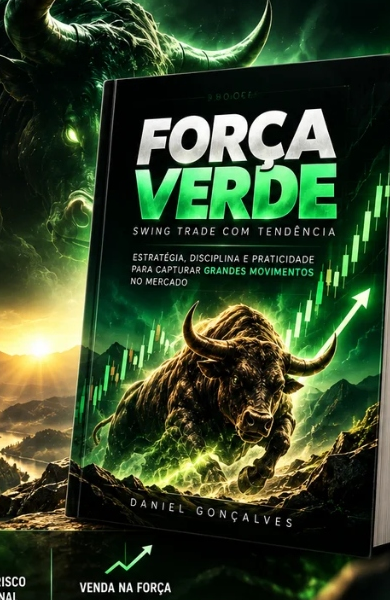
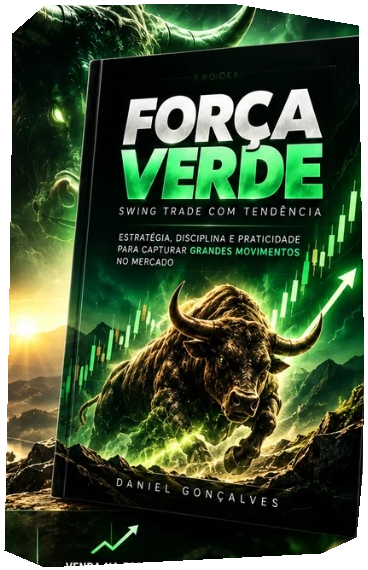
feat(store): livro 3d com canal alfa transparente, sidebar preservada e cards escuros sem faixas brancas

diff --git a/frontend/materials-page-v2.css b/frontend/materials-page-v2.css
@@ -9,6 +9,28 @@ body:has(#materials.active) .content {
   color: #ffffff !important;
 }
 
+/* Preserva rigorosamente a Sidebar oficial do Healthy Trend Trader */
+body:has(#materials.active) .sidebar {
+  background: linear-gradient(180deg, #10291f 0%, #0a1d16 100%) !important;
+  border-right: 1px solid rgba(16, 185, 129, 0.12) !important;
+  box-shadow: 18px 0 40px rgba(0, 0, 0, 0.5) !important;
+  z-index: 25 !important;
+}
+
+/* Harmoniza a barra superior (topbar) com o visual cinematográfico escuro */
+body:has(#materials.active) .topbar {
+  background: rgba(3, 14, 7, 0.95) !important;
+  border-bottom: 1px solid rgba(16, 185, 129, 0.14) !important;
+  backdrop-filter: blur(16px) !important;
+  color: #e2e8f0 !important;
+}
+body:has(#materials.active) .topbar .crumb {
+  color: #94a3b8 !important;
+}
+body:has(#materials.active) .topbar .crumb b {
+  color: #10b981 !important;
+}
+
 #materials {
   width: 100%;
 }
@@ -260,18 +282,28 @@ body:has(#materials.active) .content {
 
 .flagship-stage {
   perspective: 1200px;
+  position: relative;
+  display: flex;
+  justify-content: center;
+  align-items: center;
+  background: transparent !important;
+  border: none !important;
+  box-shadow: none !important;
 }
 
 .flagship-cover-img {
-  height: clamp(320px, 28vw, 390px);
+  height: clamp(330px, 30vw, 410px);
   width: auto;
   object-fit: contain;
-  filter: drop-shadow(0 20px 45px rgba(0, 0, 0, 0.85)) drop-shadow(0 0 35px rgba(34, 197, 94, 0.2));
-  transition: transform 0.5s ease;
+  background: transparent !important;
+  /* Sombra natural e realista integrando o livro 3D à cena do touro e montanhas */
+  filter: drop-shadow(0 20px 35px rgba(0, 0, 0, 0.85)) drop-shadow(0 0 25px rgba(16, 185, 129, 0.2));
+  transition: transform 0.4s ease, filter 0.4s ease;
 }
 
 .flagship-stage:hover .flagship-cover-img {
-  transform: translateY(-4px) scale(1.02);
+  transform: translateY(-6px) scale(1.02);
+  filter: drop-shadow(0 26px 48px rgba(0, 0, 0, 0.92)) drop-shadow(0 0 35px rgba(16, 185, 129, 0.35));
 }
 
 /* Faixa dos 5 Pilares Integrada */
@@ -526,32 +558,32 @@ body:has(#materials.active) .content {
 }
 
 .materials-filters button {
-  padding: 7px 18px;
+  padding: 6px 14px;
   border-radius: 999px;
-  font-size: 12.5px;
-  font-weight: 700;
+  font-size: 12px;
+  font-weight: 600;
   cursor: pointer;
   transition: all 0.2s ease;
-  background: rgba(255, 255, 255, 0.9);
-  border: none;
-  color: #0f172a;
+  background: rgba(4, 18, 10, 0.7);
+  border: 1px solid rgba(16, 185, 129, 0.25);
+  color: #cbd5e1;
   display: inline-flex;
   align-items: center;
-  gap: 6px;
-  box-shadow: 0 2px 6px rgba(0, 0, 0, 0.2);
+  gap: 5px;
 }
 
 .materials-filters button:hover {
-  background: #ffffff;
-  transform: translateY(-1px);
+  background: rgba(16, 185, 129, 0.15);
+  color: #ffffff;
+  border-color: rgba(16, 185, 129, 0.45);
 }
 
 .materials-filters button.active {
   background: #10b981;
-  border: none;
-  color: #020b06;
-  font-weight: 850;
-  box-shadow: 0 0 16px rgba(16, 185, 129, 0.5);
+  border: 1px solid #10b981;
+  color: #021a0e;
+  font-weight: 800;
+  box-shadow: 0 0 16px rgba(16, 185, 129, 0.4);
 }
 
 .category-count {
@@ -568,20 +600,19 @@ body:has(#materials.active) .content {
 .materials-search {
   display: flex;
   align-items: center;
-  background: rgba(255, 255, 255, 0.06);
-  border: 1px solid rgba(255, 255, 255, 0.14);
+  background: rgba(4, 18, 10, 0.7);
+  border: 1px solid rgba(16, 185, 129, 0.25);
   border-radius: 999px;
-  padding: 7px 16px;
+  padding: 6px 14px;
   gap: 8px;
-  width: 240px;
+  width: 220px;
   color: #94a3b8;
-  backdrop-filter: blur(8px);
 }
 
 .materials-search input {
   border: none;
   outline: none;
-  font-size: 13px;
+  font-size: 12px;
   color: #ffffff;
   width: 100%;
   background: transparent;
@@ -592,16 +623,15 @@ body:has(#materials.active) .content {
 }
 
 #materialsSort {
-  background: rgba(255, 255, 255, 0.06);
-  border: 1px solid rgba(255, 255, 255, 0.14);
+  background: rgba(4, 18, 10, 0.7);
+  border: 1px solid rgba(16, 185, 129, 0.25);
   border-radius: 999px;
-  padding: 7px 16px;
-  font-size: 13px;
+  padding: 6px 14px;
+  font-size: 12px;
   color: #cbd5e1;
   font-weight: 600;
   outline: none;
   cursor: pointer;
-  backdrop-filter: blur(8px);
 }
 
 #materialsSort option {
@@ -868,29 +898,31 @@ body:has(#materials.active) .content {
   z-index: 5;
 }
 
-/* Corpo do Card de Catálogo (Caixa Branca com Título Escuro conforme Referência) */
+/* Corpo do Card de Catálogo (Fundo Escuro com Título Branco - SEM FAIXA BRANCA) */
 .card-body {
-  background: #ffffff;
-  padding: 8px 10px;
+  background: rgba(3, 14, 7, 0.95);
+  border-top: 1px solid rgba(16, 185, 129, 0.12);
+  padding: 10px 12px;
   display: flex;
   flex-direction: column;
   align-items: center;
   justify-content: center;
-  min-height: 44px;
+  min-height: 48px;
   text-align: center;
 }
 
 .card-title {
-  font-size: 10.5px;
-  font-weight: 750;
-  color: #0f172a;
-  line-height: 1.25;
+  font-size: 11px;
+  font-weight: 700;
+  color: #ffffff;
+  line-height: 1.3;
   margin: 0;
   display: -webkit-box;
   -webkit-line-clamp: 2;
   -webkit-box-orient: vertical;
   overflow: hidden;
   text-align: center;
+  letter-spacing: 0.01em;
 }
 
 .card-subtitle,
@@ -1364,4 +1396,34 @@ body:has(#materials.active) .content {
   .featured-dual-grid {
     grid-template-columns: 1fr;
   }
+}
+
+/* Botão Flutuante de Suporte WhatsApp (Conforme Referência Aprovada) */
+.store-whatsapp-float {
+  position: fixed;
+  bottom: 28px;
+  right: 28px;
+  width: 54px;
+  height: 54px;
+  border-radius: 50%;
+  background: #25D366;
+  color: #ffffff;
+  display: flex;
+  align-items: center;
+  justify-content: center;
+  box-shadow: 0 8px 24px rgba(37, 211, 102, 0.45), 0 4px 12px rgba(0, 0, 0, 0.3);
+  z-index: 99;
+  text-decoration: none;
+  transition: transform 0.25s ease, box-shadow 0.25s ease;
+}
+
+.store-whatsapp-float:hover {
+  transform: scale(1.08) translateY(-3px);
+  box-shadow: 0 12px 30px rgba(37, 211, 102, 0.6), 0 6px 16px rgba(0, 0, 0, 0.4);
+}
+
+.store-whatsapp-float svg {
+  width: 28px;
+  height: 28px;
+  fill: currentColor;
 }

diff --git a/frontend/materials-page-v2.js b/frontend/materials-page-v2.js
@@ -816,6 +816,13 @@
           <span class="footer-quote">“Um trader melhor a cada dia.”</span>
           <span class="footer-brand">— Healthy Trend Trader</span>
         </div>
+
+        <!-- Botão Flutuante do WhatsApp Conforme Referência -->
+        <a href="https://wa.me/5511999999999" target="_blank" rel="noopener noreferrer" class="store-whatsapp-float" aria-label="Falar no WhatsApp" title="Fale com nosso Suporte VIP">
+          <svg viewBox="0 0 24 24" width="28" height="28" fill="currentColor">
+            <path d="M17.472 14.382c-.297-.149-1.758-.867-2.03-.967-.273-.099-.471-.148-.67.15-.197.297-.767.966-.94 1.164-.173.199-.347.223-.644.075-.297-.15-1.255-.463-2.39-1.475-.883-.788-1.48-1.761-1.653-2.059-.173-.297-.018-.458.13-.606.134-.133.298-.347.446-.52.149-.174.198-.298.298-.497.099-.198.05-.371-.025-.52-.075-.149-.669-1.612-.916-2.207-.242-.579-.487-.5-.669-.51-.173-.008-.371-.01-.57-.01-.198 0-.52.074-.792.372-.272.297-1.04 1.016-1.04 2.479 0 1.462 1.065 2.875 1.213 3.074.149.198 2.096 3.2 5.077 4.487.709.306 1.262.489 1.694.625.712.227 1.36.195 1.871.118.571-.085 1.758-.719 2.006-1.413.248-.694.248-1.289.173-1.413-.074-.124-.272-.198-.57-.347m-5.421 7.403h-.004a9.87 9.87 0 01-5.031-1.378l-.361-.214-3.741.982.998-3.648-.235-.374a9.86 9.86 0 01-1.51-5.26c.001-5.45 4.436-9.884 9.888-9.884 2.64 0 5.122 1.03 6.988 2.898a9.825 9.825 0 012.893 6.994c-.003 5.45-4.437 9.884-9.885 9.884m8.413-18.297A11.815 11.815 0 0012.05 0C5.495 0 .16 5.335.157 11.892c0 2.096.547 4.142 1.588 5.945L.057 24l6.305-1.654a11.882 11.882 0 005.683 1.448h.005c6.554 0 11.89-5.335 11.893-11.893a11.821 11.821 0 00-3.48-8.413z"/>
+          </svg>
+        </a>
       </footer>
     </main>`;
 
